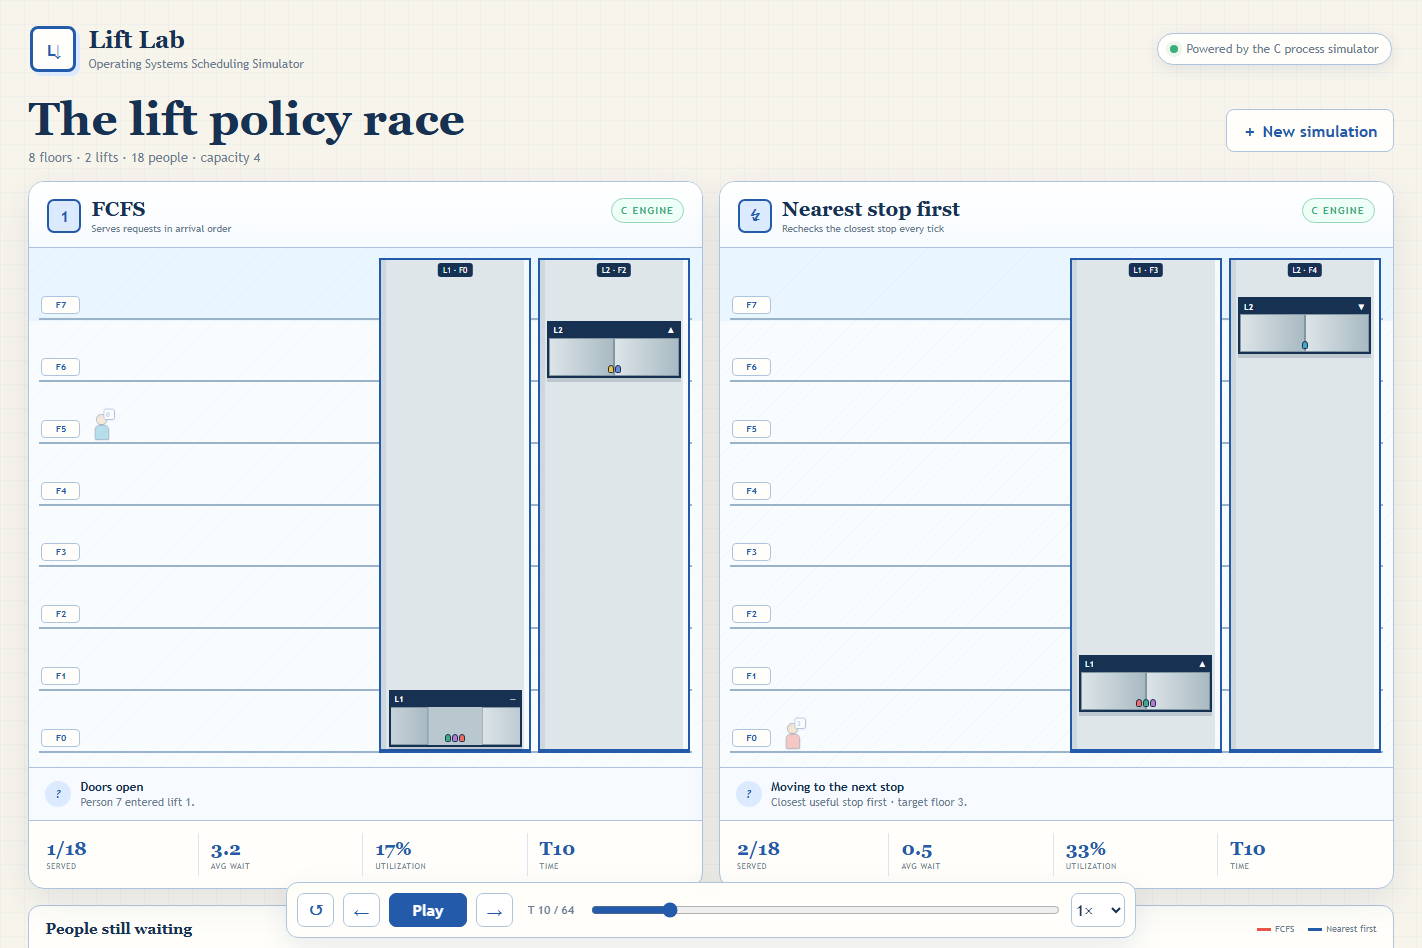
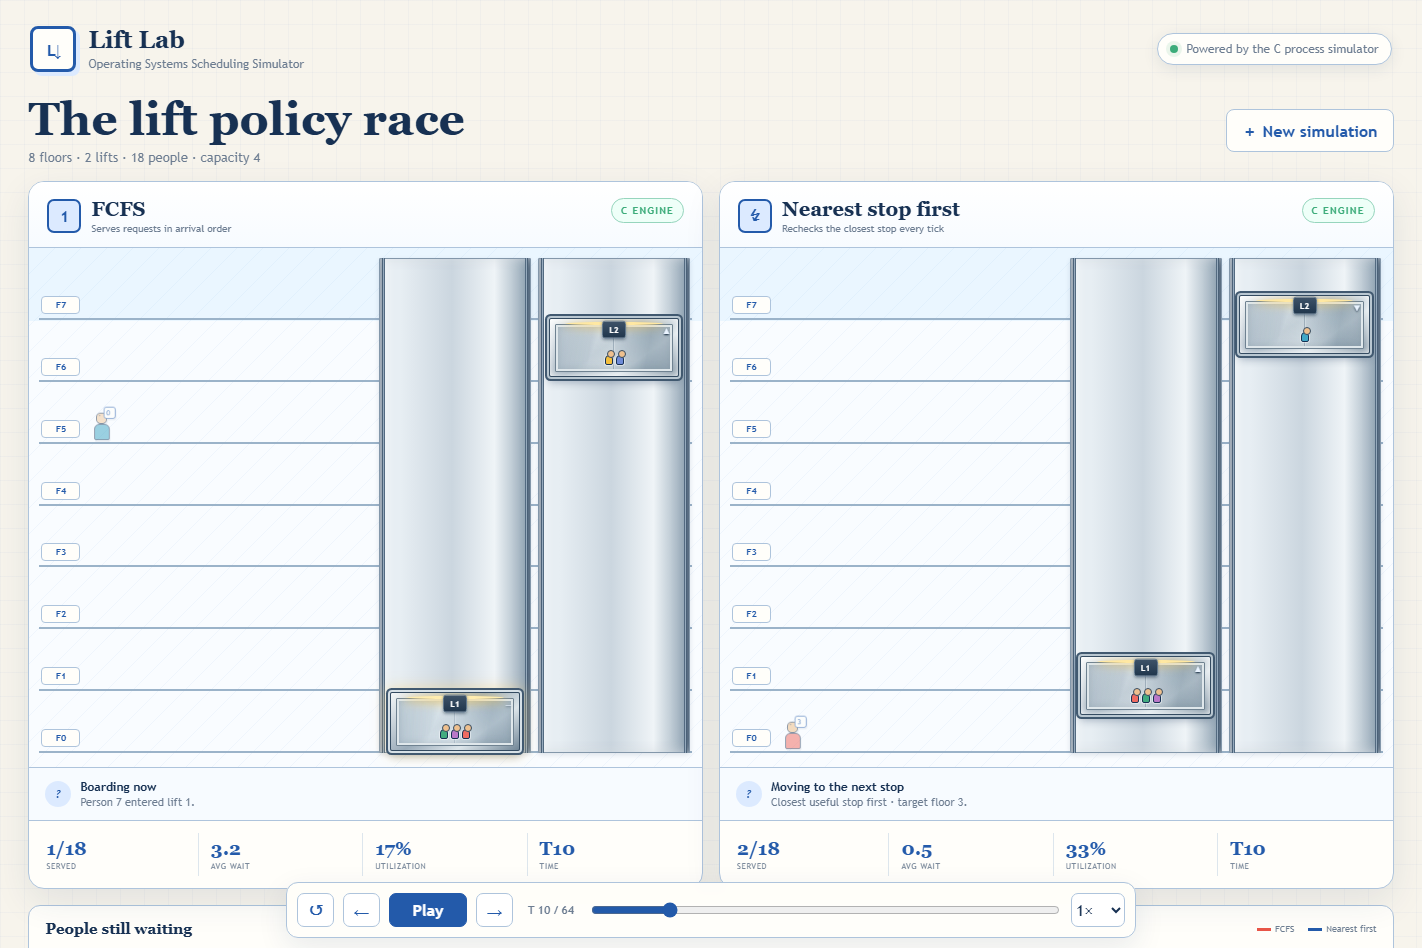
style: refine lift cabins and shafts

diff --git a/viz/index.html b/viz/index.html
@@ -15,6 +15,20 @@
 @media(max-width:980px){.setup{grid-template-columns:1fr;min-height:0}.mini-scene{display:none}.race{grid-template-columns:1fr}.scene{height:500px}.sim-head{align-items:flex-end}}
 @media(max-width:620px){.page{width:min(100% - 18px,1440px);padding-top:10px}.brand p,.engine-tag span{display:none}.setup{padding:24px 18px;border-radius:14px}.setup h2{font-size:42px}.form-grid{grid-template-columns:1fr}.start-btn,.form-error{grid-column:auto}.sim-head{align-items:flex-start;flex-direction:column}.scene{height:430px}.queue{width:40%}.shafts{left:49%}.stats{grid-template-columns:repeat(2,1fr)}.stat:nth-child(2){border-right:0}.result{align-items:flex-start;flex-direction:column}.control-dock{gap:5px}.control-dock select{width:58px}.learn-grid{grid-template-columns:1fr}}
 .person{width:21px;height:32px;flex-basis:21px}.person .head{width:13px;height:13px;border-radius:5px}.person .head:after{left:2px;top:-3px;font-size:8px}.person .body{width:18px;height:19px;border-radius:6px 6px 2px 2px}.person .dest{left:13px;min-width:14px;height:14px;font-size:8px;line-height:12px}
+/* Lift-only visual refresh: brushed shaft, glass cabin and always-visible riders. */
+.shaft{border:0;border-radius:2px;background:linear-gradient(90deg,#52677c 0 3px,#aec0cf 3px 6px,#e7eef3 6px 14%,#cbd6df 48%,#eff4f7 76%,#9dafbd calc(100% - 6px),#52677c calc(100% - 3px));box-shadow:inset 0 0 0 1px #8397aa,inset 7px 0 12px #ffffff8f,inset -7px 0 12px #60758b42,0 2px 5px #1731531f;overflow:visible}
+.shaft:before,.shaft:after{content:"";position:absolute;top:0;bottom:0;width:3px;background:linear-gradient(90deg,#253d55,#96aabd,#314a62);z-index:1}.shaft:before{left:3px}.shaft:after{right:3px;transform:scaleX(-1)}
+.shaft-label{display:none}
+.car{left:7%;width:86%;height:calc(100% / var(--floors) - 3px);border:1px solid #344b61;border-radius:2px;background:linear-gradient(145deg,#f4f7f8,#9bacba 45%,#dce5ea 70%,#718697);box-shadow:0 0 0 2px #b9c7d1,0 0 0 4px #415970,0 5px 9px #17315355,inset 0 0 9px #fff;overflow:hidden;transition:bottom var(--move-time) linear,box-shadow .2s ease;z-index:3}
+.car:before{content:"";position:absolute;z-index:5;left:12%;right:12%;top:3px;height:3px;border-radius:50%;background:#ffe8a2;box-shadow:0 2px 8px 2px #ffd36c9c;transition:.2s}
+.car:after{content:"";position:absolute;z-index:4;inset:5px 5px 4px;border:1px solid #6f8291;border-radius:1px;box-shadow:inset 0 0 0 2px #dfe7eb,inset 0 0 9px #647b8d66;pointer-events:none}
+.car-top{position:absolute;z-index:7;inset:0;background:transparent;color:#fff;display:block;padding:0;font-size:8px;pointer-events:none}
+.car-top b{position:absolute;left:50%;top:50%;transform:translate(-50%,-35%);min-width:24px;padding:3px 5px;border-radius:3px;background:linear-gradient(#3d5268,#20364c);border:1px solid #61788d;box-shadow:0 1px 3px #10263c66;text-align:center;font-size:8px;letter-spacing:.04em}
+.car-top span{position:absolute;right:8px;top:7px;color:#eaf4ff;font-size:8px;text-shadow:0 1px 2px #10263c}
+.car-body{position:absolute;inset:6px;background:linear-gradient(110deg,#7e94a580,#edf4f7a8 35%,#98aab788 70%,#60798c99);overflow:hidden}
+.door{top:0;bottom:0;width:50%;border:0;background:linear-gradient(100deg,#dfe8ed66,#6f879855 58%,#f3f7f988);opacity:.52;backdrop-filter:blur(.25px);transition:opacity .2s ease,filter .2s ease}.door.left{border-right:1px solid #536b7f99}.door.right{border-left:1px solid #e9f0f4aa}.car.serving .door.left,.car.serving .door.right{transform:none;opacity:.2;filter:brightness(1.2)}
+.car.serving{box-shadow:0 0 0 2px #d7e1e7,0 0 0 4px #415970,0 0 15px 3px #ffd4778a,0 5px 9px #17315355}.car.serving:before{background:#fff4c5;box-shadow:0 2px 11px 4px #ffd05bbd}
+.riders{z-index:6;inset:9px 7px 5px;align-content:flex-end;gap:3px}.rider{position:relative;width:8px;height:10px;margin-top:5px;border-radius:4px 4px 2px 2px;box-shadow:0 0 0 1px #ffffff75}.rider:before{content:"";position:absolute;width:6px;height:6px;left:1px;top:-6px;border-radius:50%;background:#efc08e;border:1px solid #344b61}
 @media(prefers-reduced-motion:reduce){*{scroll-behavior:auto!important}.car,.door{transition:none!important}}
 </style>
 </head>
@@ -80,7 +94,7 @@ function makeBuilding(key,title,subtitle){
 function decisionFor(run,fr,t){
   const events=run.events.filter(e=>e.t===t&&['PREEMPT','BOARD','DROP','FULL'].includes(e.ev)); const e=events.at(-1);
   if(e?.ev==='PREEMPT')return ['Changed direction',`A closer request made lift ${e.l+1} choose a new target.`];
-  if(e?.ev==='BOARD')return ['Doors open',`Person ${e.p} entered lift ${e.l+1}.`];
+  if(e?.ev==='BOARD')return ['Boarding now',`Person ${e.p} entered lift ${e.l+1}.`];
   if(e?.ev==='DROP')return ['Destination reached',`Person ${e.p} left lift ${e.l+1}.`];
   if(e?.ev==='FULL')return ['Lift is full',`Person ${e.p} stays in the queue for another trip.`];
   const moving=fr.lifts.find(l=>l.a==='U'||l.a==='D');
